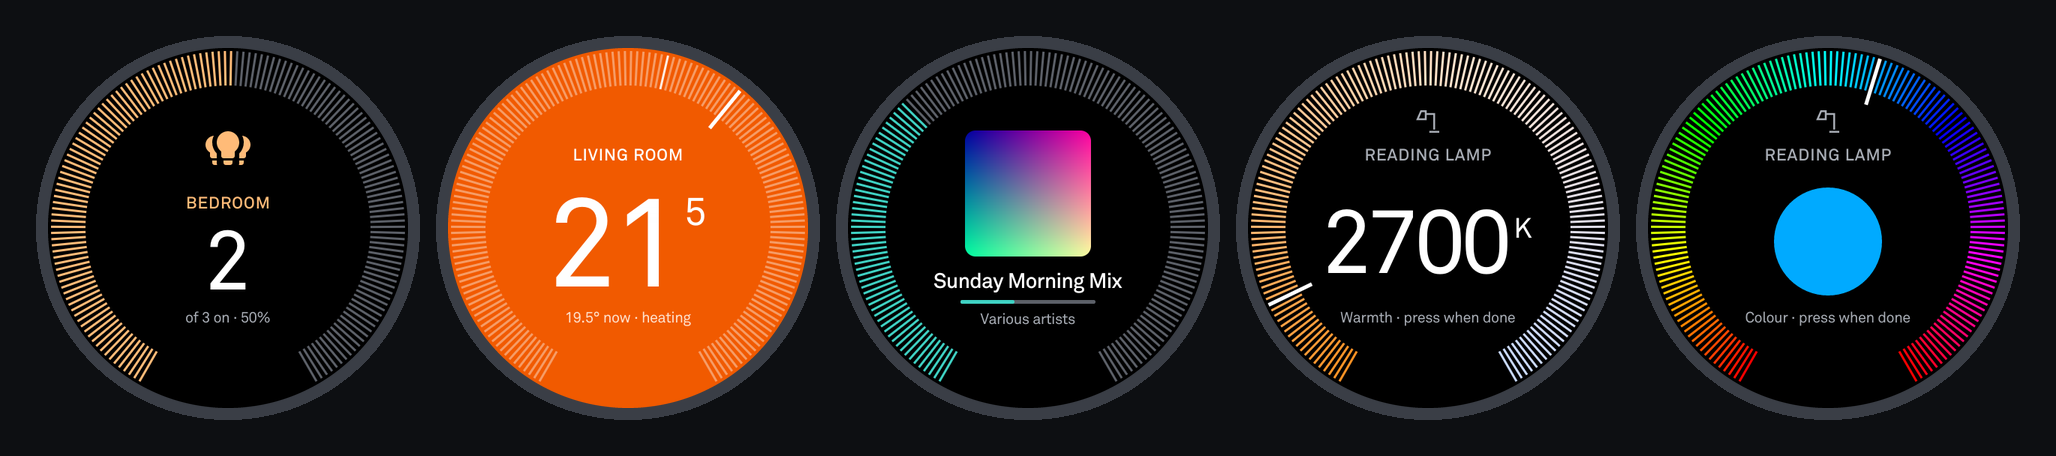
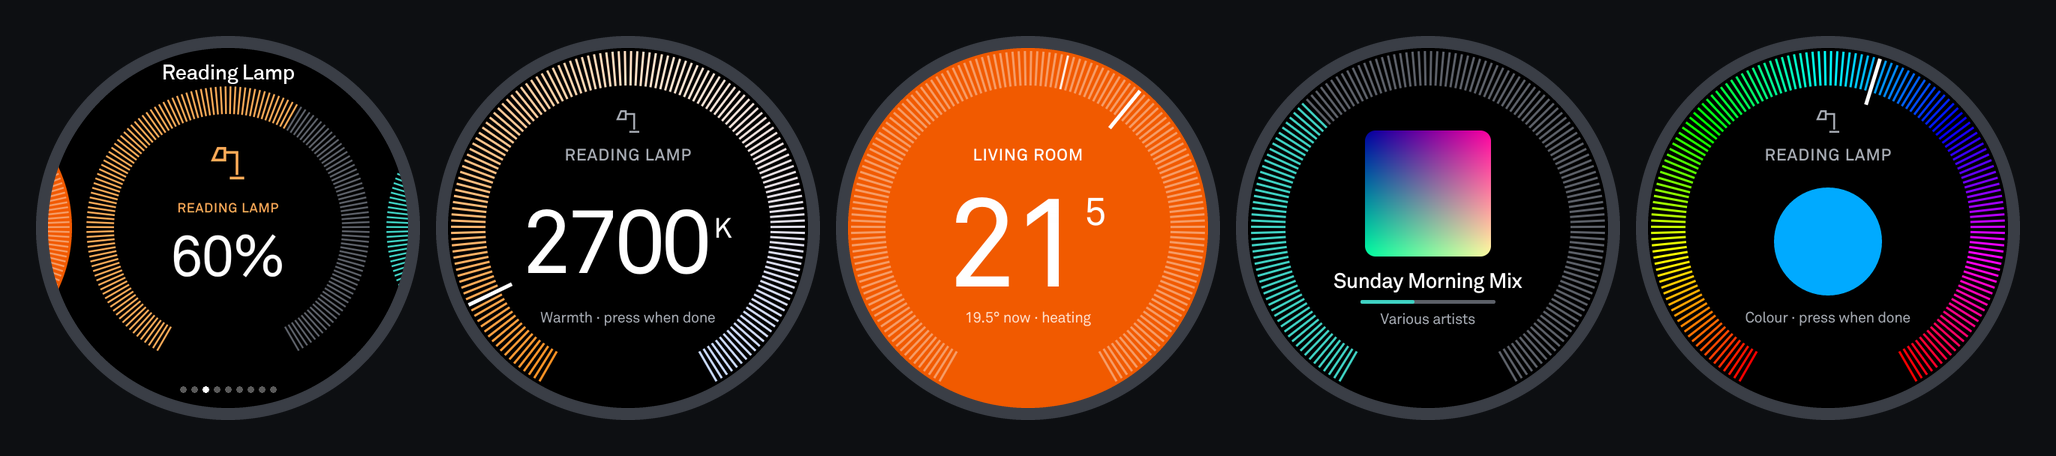
README: the screens as they are now: the chooser, and a card a device

Changed region(s): [[0.0, 0.0921, 0.7782, 0.8904], [0.0934, 0.8289, 0.1245, 0.8596]]

diff --git a/README.md b/README.md
@@ -16,7 +16,7 @@
 </p>
 
 <p align="center">
-  <img src="assets/screens.png" width="100%" alt="Five of the thermostat's screens: a room's lights, another heating zone that is heating, a speaker's album art and progress, and a lamp's warmth and colour dials.">
+  <img src="assets/screens.png" width="100%" alt="Five of the thermostat's screens: the device chooser on a reading lamp's card, the lamp's warmth dial, another heating zone that is heating, a speaker's album art and progress, and the lamp's colour dial.">
 </p>
 
 Walk up to the thermostat and it wakes to your devices, zoomed out around the
